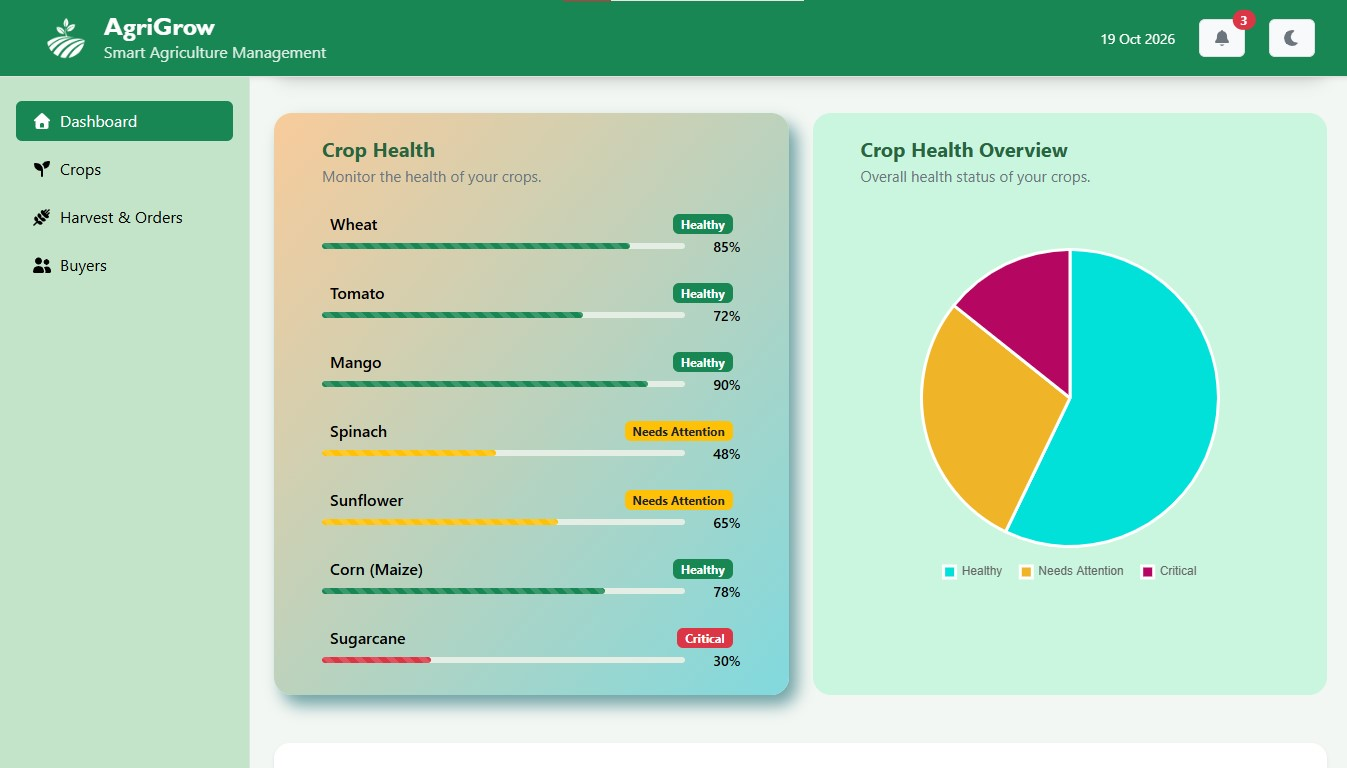
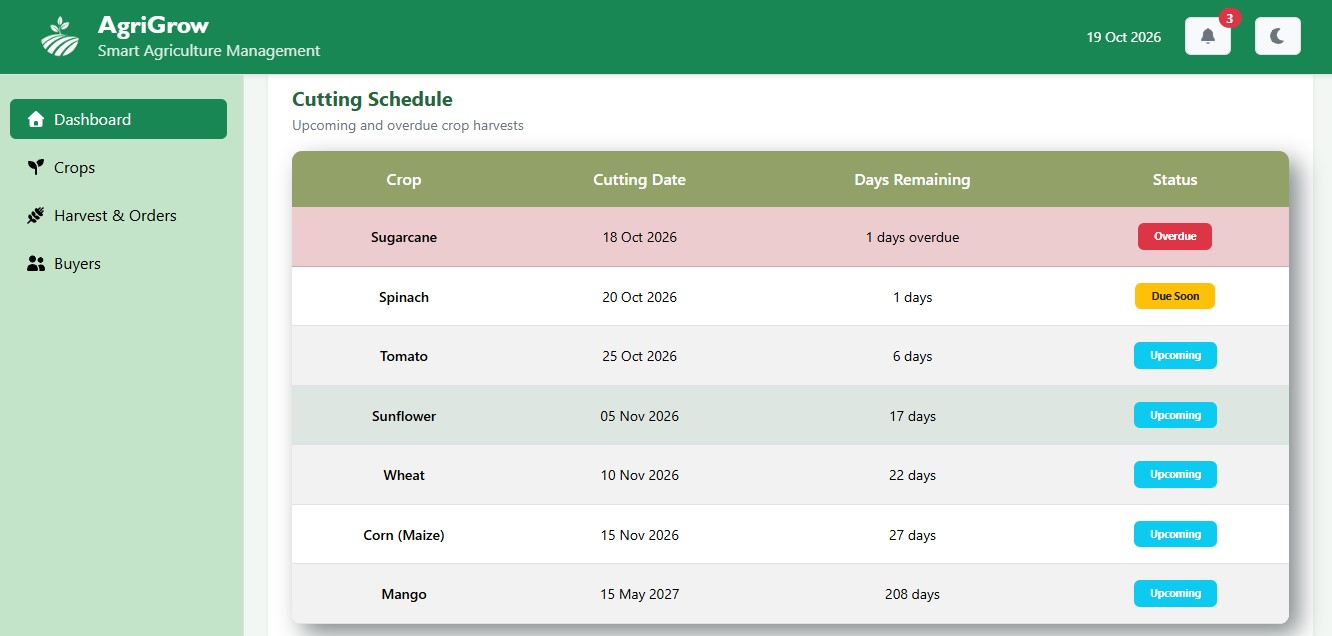
Update README

diff --git a/README.md b/README.md
@@ -33,19 +33,18 @@ A React-based Agriculture Management System designed to help manage crops, monit
 ![Dashboard Screenshot](src/assets/screenshot/Dashboard%201.jpg)
 ![Dashboard Screenshot](src/assets/screenshot/Dashboard%202.jpg)
 ![Dashboard Screenshot](src/assets/screenshot/Dashboard%203.jpg)
-![Dashboard Screenshot](src/assets/screenshot/Dashboard%204.jpg)
 
 ### Crop Management
 ![Crop Management Screenshot](src/assets/screenshot/Crops%20page%201.jpg)
 ![Crop Management Screenshot](src/assets/screenshot/Crops%20page%202.jpg)
 
-### Buyer Management
-![Buyer Management Screenshot](src/assets/screenshot/HarvestOrders%20p1.jpg)
-![Buyer Management Screenshot](src/assets/screenshot/HarvestOrders%20p2.jpg)
-
 ### Harvest & Orders
 ![Harvest and Orders Screenshot](src/assets/screenshot/Buyers%20.jpg)
 ![Harvest and Orders Screenshot](src/assets/screenshot/Buyers%202.jpg)
+
+### Buyer Management
+![Buyer Management Screenshot](src/assets/screenshot/HarvestOrders%20p1.jpg)
+![Buyer Management Screenshot](src/assets/screenshot/HarvestOrders%20p2.jpg)
 
 
 ##  Installation and Setup
